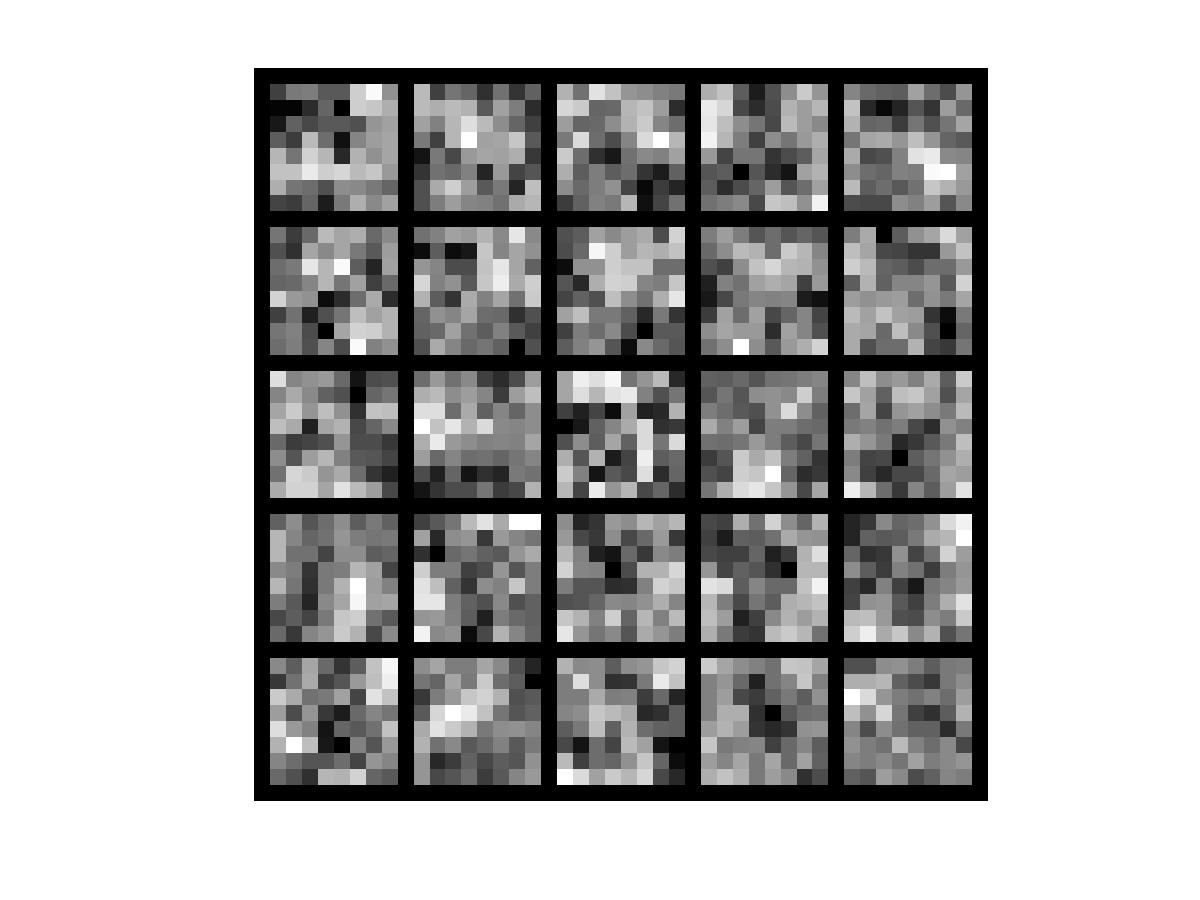
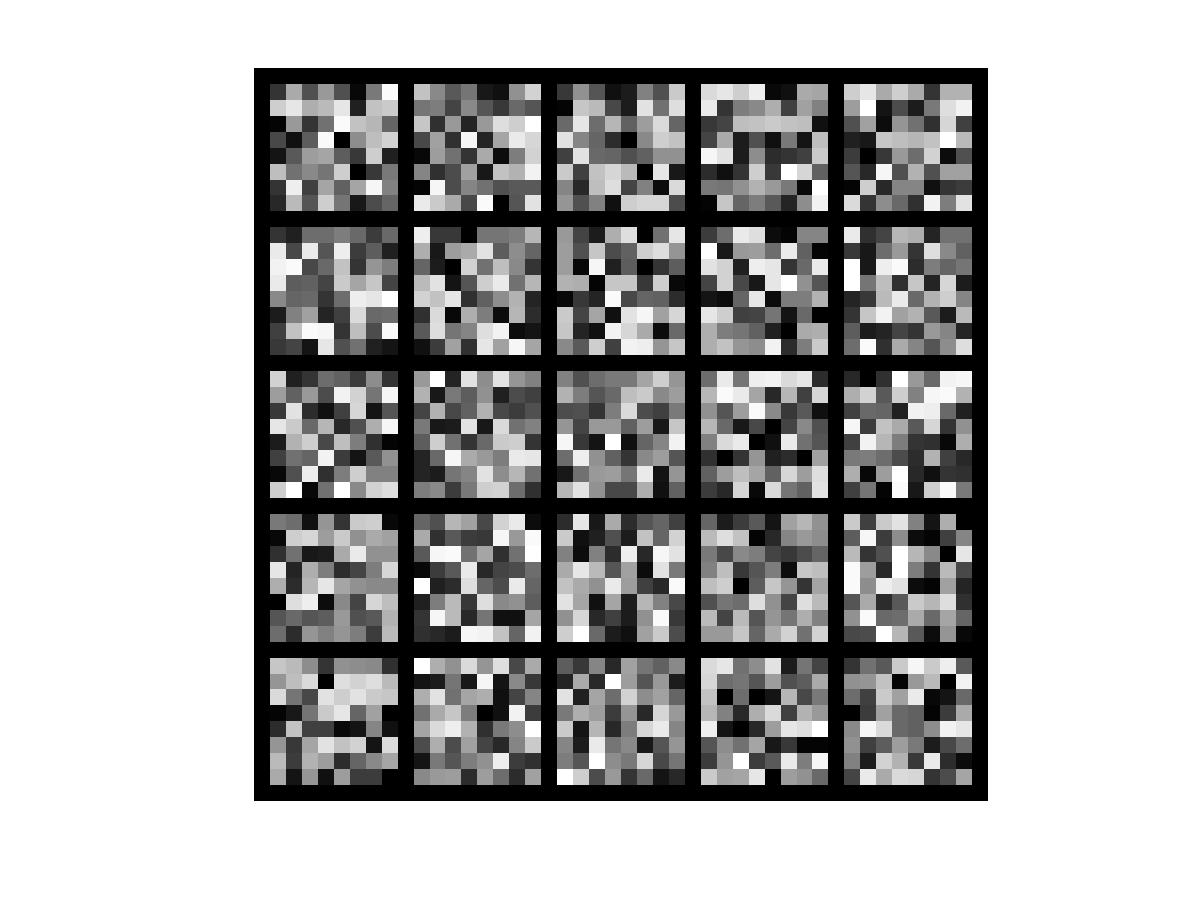
three layer works!

diff --git a/train.m b/train.m
@@ -20,7 +20,10 @@ sparsityParam = 0.01;   % desired average activation of the hidden units.
                      % (This was denoted by the Greek alphabet rho, which looks like a lower-case "p",
 		     %  in the lecture notes). 
 lambda = 0.0001;     % weight decay parameter       
+%lambda = 0;
+ninstance = 10000;
 beta = 3;            % weight of sparsity penalty term       
+%beta = 0;
 
 %%======================================================================
 %% STEP 1: Implement sampleIMAGES
@@ -28,7 +31,7 @@ beta = 3;            % weight of sparsity penalty term
 %  After implementing sampleIMAGES, the display_network command should
 %  display a random sample of 200 patches from the dataset
 
-patches = sampleIMAGES('IMAGES.mat', 10000, 8);
+patches = sampleIMAGES('IMAGES.mat', ninstance, 8);
 display_network(patches(:,randi(size(patches,2),200,1)),8);
 
 
@@ -75,21 +78,21 @@ theta = initializeParameters(hiddenSize, visibleSize);
 % First, lets make sure your numerical gradient computation is correct for a
 % simple function.  After you have implemented computeNumericalGradient.m,
 % run the following: 
-checkNumericalGradient();
+%checkNumericalGradient();
 
 % Now we can use it to check your cost function and derivative calculations
 % for the sparse autoencoder.  
-numgrad = computeNumericalGradient( @(x) sparseAutoencoderCost(x, visibleSize, ...
-                                                  hiddenSize, lambda, ...
-                                                  sparsityParam, beta, ...
-                                                  patches), theta);
+%numgrad = computeNumericalGradient( @(x) sparseAutoencoderCost(x, visibleSize, ...
+%                                                  hiddenSize, lambda, ...
+%                                                  sparsityParam, beta, ...
+%                                                  patches), theta);
 
 % Use this to visually compare the gradients side by side
-disp([numgrad grad]); 
+%disp([numgrad grad]); 
 
 % Compare numerically computed gradients with the ones obtained from backpropagation
-diff = norm(numgrad-grad)/norm(numgrad+grad);
-disp(diff); % Should be small. In our implementation, these values are
+%diff = norm(numgrad-grad)/norm(numgrad+grad);
+%disp(diff); % Should be small. In our implementation, these values are
             % usually less than 1e-9.
 
             % When you got this working, Congratulations!!! 

diff --git a/computeNumericalGradient.m b/computeNumericalGradient.m
@@ -17,12 +17,13 @@ numgrad = zeros(size(theta));
 % respect to theta(i).
 %                
 % Hint: You will probably want to compute the elements of numgrad one at a time. 
-
-
-
-
-
-
+EPSILON = 1e-4;
+e = zeros(size(theta));
+for i = 1 : length(numgrad)
+	e(i) = EPSILON;
+	numgrad(i) = (J(theta + e) - J(theta - e)) / (2 * EPSILON);
+	e(i) = 0;
+end
 
 
 %% ---------------------------------------------------------------
